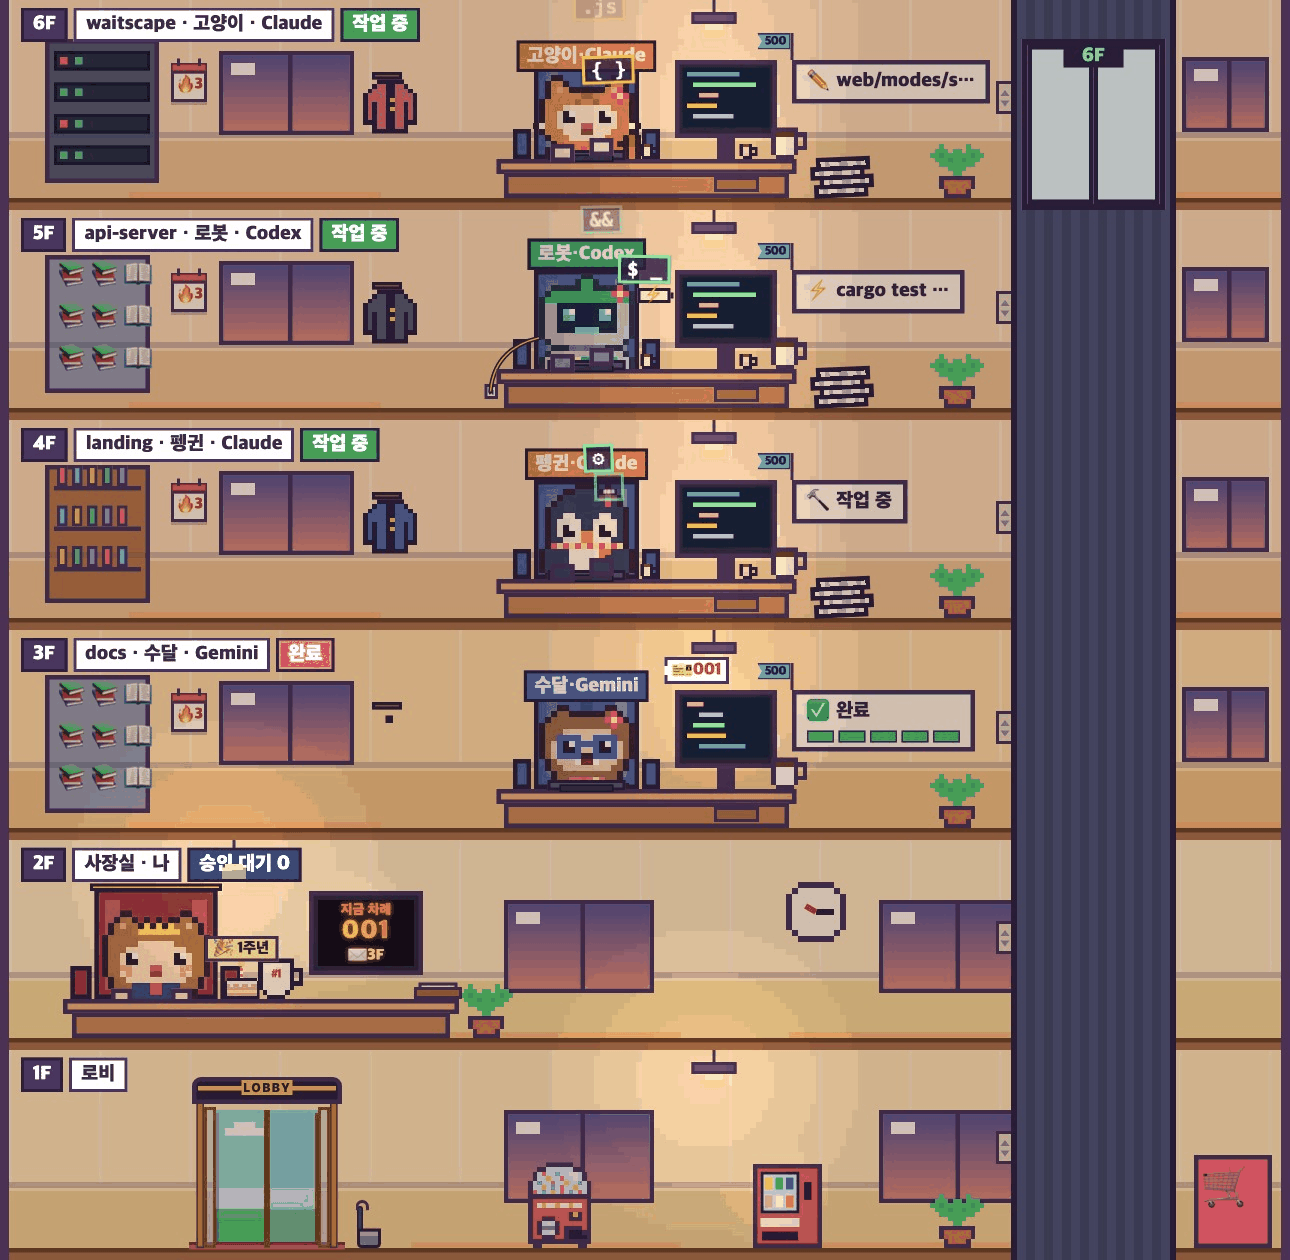
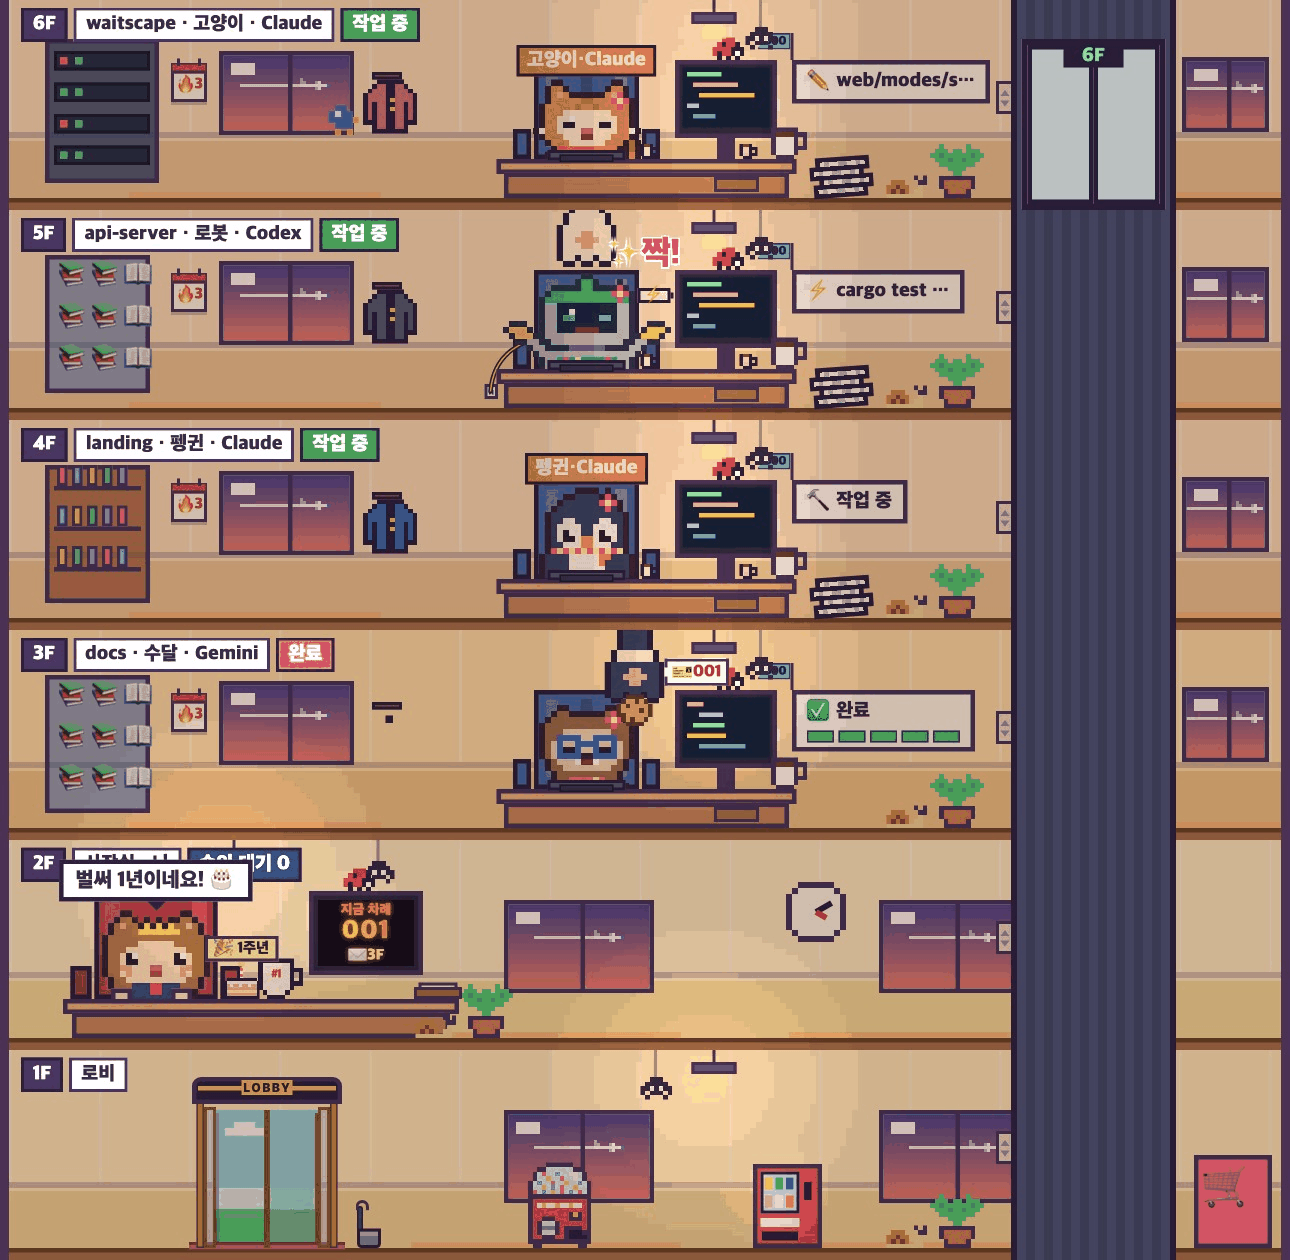
docs: README 그림·움짤을 0.9.9 화면으로 다시 찍기 (#246)
12개(한국어·영어 6씩)를 맑은 날씨로 고정해 다시 찍고,
미니 보기·깨알 디테일 alt 글을 새 장면에 맞춤.

diff --git a/README.en.md b/README.en.md
@@ -42,7 +42,7 @@ Waitscape is a desktop app that turns your AI coding agent sessions (Claude Code
 <td colspan="2" valign="middle">
 <h3>📌 Mini view</h3>
 A small 420×130 always-on-top window. The big window hides and only this small one stays above your other apps. It shows the same building as the big window, one floor at a time. It watches the boss's office; when someone comes down with a question it follows them to the elevator, and when someone finishes or a subagent meeting starts it shows that floor for a moment. The elevator shaft has a door on every floor, showing which floor the car is on and which way (▲▼) it's going. A black news line along the bottom briefly shows who just did what, and when there's no news it shows who is waiting for your answer. Scroll for floors and scroll sideways for the rest of a floor. All the tiny details from the big window show up in the mini view too.
-<p align="center"><img src="docs/assets/en/mini.gif" width="420" alt="Mini view — the camera following a penguin coming down with a question, the question bubble in the boss office, heading back after the answer"></p>
+<p align="center"><img src="docs/assets/en/mini.gif" width="420" alt="Mini view — the camera following a penguin coming down with a question, the question bubble in the boss office, heading back after the answer, and the black news line at the bottom"></p>
 </td>
 </tr>
 <tr>
@@ -70,7 +70,7 @@ When the AI hands work to subagents, that floor turns into a meeting room. Baby 
 <td colspan="2" valign="middle">
 <h3>🔍 Tiny details</h3>
 Look closer at Studio and small things keep showing up. The boss sits in a red executive chair, the staff in blue office chairs, and the meeting-room babies in mint meeting chairs. Empty coffee cups pile up during long sessions, a jacket goes up on the wall hook, and papers stack up as the context fills. Hit 100, 500 and 1,000 tool calls and a flag pops up on the monitor; the robot plugs in a cable when its battery runs out. Every staff member blinks at their own pace and has a habit, like sniffing or perking up their ears. They stick their tongue out when focused, blush ^^ when they finish, and break into a sweat when stuck for long. Finish a job and a neighbor's hand pokes through the ceiling for a high five, cookies get shared with the floor above, and yawns spread from floor to floor. Staff waiting to ask a question start tapping their feet after a minute, and on Friday evenings everyone switches to Hawaiian shirts and a flower. Pigeons visit the window sills, a spider dangles from the ceiling, and a ladybug walks across a monitor. At night moths circle the lamp and a guard cat patrols; on rainy days a snail climbs the plant pot, and planes and hot-air balloons drift past the window (and, very rarely at night, a UFO). The boss's mug changes its slogan when you click it, and a cake appears on your install anniversary.
-<p align="center"><img src="docs/assets/en/details.png" width="860" alt="Tiny details — staff in their chairs, robot battery and charging cable, jacket on the wall hook, paper stacks, empty coffee cups, 500-tool flags, streak calendars, Friday hibiscus, anniversary cake and the boss's mug"></p>
+<p align="center"><img src="docs/assets/en/details.png" width="860" alt="Tiny details — a hand poking through the ceiling for a high five with the robot (Slap!), the otter passing a cookie to the floor above, spiders dangling from the ceiling and ladybugs on monitors, snails by the plant pots, jacket on the wall hook, paper stacks, empty coffee cups, streak calendars, Friday hibiscus, anniversary cake and the boss's mug"></p>
 </td>
 </tr>
 </table>

diff --git a/CHANGELOG.md b/CHANGELOG.md
@@ -8,6 +8,9 @@
 ## [Unreleased]
 
 ### 바뀜
+- README 그림·움짤 12개(한국어·영어)를 0.9.9 화면으로 다시 찍었어요. 미니 보기 아래 소식 줄과 하이파이브·간식 나눔·거미·무당벌레·달팽이 같은 깨알 디테일이 보여요. (jhkwim/waitscape#246)
+
+### 바뀜
 - README(한국어·영어)를 0.9.9에 맞췄어요. 미니 보기(420×130 고정 창·층마다 엘리베이터 문·아래 소식 줄·뽑기는 큰 창에서)와 깨알 디테일(표정·버릇·거미·무당벌레·나방·달팽이·창밖·하이파이브·간식 나눔·하품 전염)을 더했어요. (jhkwim/waitscape#244)
 
 ## [0.9.9] - 2026-11-27
